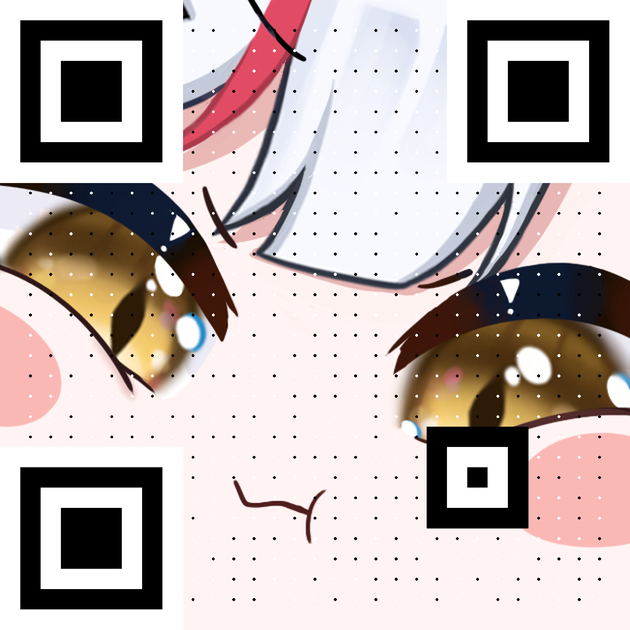
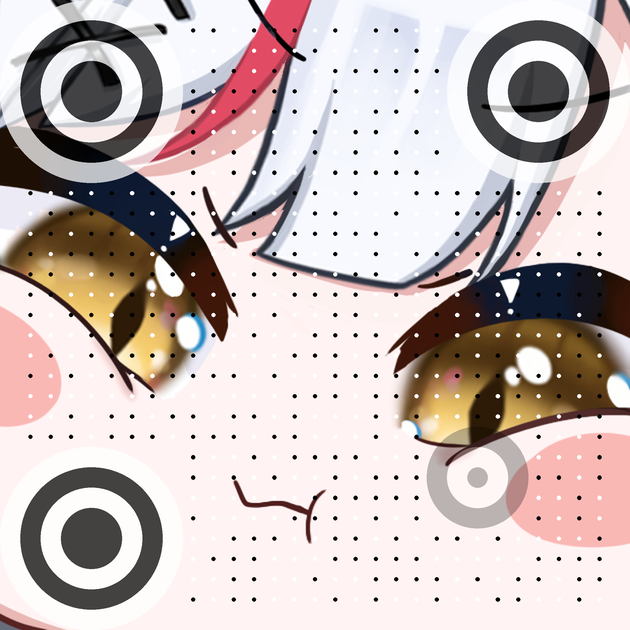
v1

diff --git a/main.py b/main.py
@@ -30,29 +30,47 @@ def drawColorRect(draw: ImageDraw, pos: tuple[float, float], radius: float, colo
 	point2 = (pos[0]+radius, pos[1]+radius)
 	draw.rectangle([point1, point2], fill="#"+colorCode)
 
-def insertQRCodeToImg(inputImageUrl: str, outputImageUrl: str, s_data: str, correctLevel: int, radiusRate: float = 1) -> None: # 將字串轉為 QRCode 後
-	img_input = Image.open(inputImageUrl) # 讀取圖片
-	imageOriginalSize = img_input.size
-	img_input = img_input.resize((2048, 2048), Image.LANCZOS) # 等比例放大圖片
+def insertQRCodeToImg(
+	inputImageUrl: str, # 要美化的圖片的檔案路徑
+	outputImageUrl: str, #
+	s_data: str,
+	correctLevel: int,
+	finderPattern: str,
+	radiusRate: float = 1
+) -> None: # 將字串轉為 QRCode 後
+	img_input = Image.open(inputImageUrl).convert("RGBA") # 讀取圖片
+	imageOriginalSize = img_input.size # 保存圖片的原始大小
+	img_input = img_input.resize((2048, 2048), Image.LANCZOS) # 等比例放大圖片, 因為要使 QRCode 像素點平滑, 等等會縮小回原大小
 	
-	a_QRCode = getQRCodeArr(s_data, correctLevel)
-	QRCodeWidth = len(a_QRCode)
-	pixelWidth = img_input.size[0] / QRCodeWidth
+	img_overlay = Image.new("RGBA", img_input.size, (255, 255, 255, 0)) # 透明圖層, 用於繪製額外的東西在原始圖片上
+	draw = ImageDraw.Draw(img_overlay)
 	
-	draw = ImageDraw.Draw(img_input)
-	for i in range(QRCodeWidth):
+	a_QRCode = getQRCodeArr(s_data, correctLevel) # 取得 QRCode 矩陣
+	QRCodeWidth = len(a_QRCode) # QRCode 的像素邊長 (px)
+	pixelWidth = img_input.size[0] / QRCodeWidth # 每個 QRCode 像素對應到要美化的圖片上, 的大小
+	
+	for i in range(QRCodeWidth): # 繪製 QRCode 的每個點
 		for j in range(QRCodeWidth):
-			color = "000" if a_QRCode[j][i] else "fff"
-			if inRange(i, 1, QRCodeWidth-2) and inRange(j, 1, QRCodeWidth-2):
-				drawColorDot(draw, tupleMulti((0.5+i, 0.5+j), pixelWidth), pixelWidth/2 * radiusRate, color)
+			color = "000" if a_QRCode[j][i] else "fff" # QRCode 像素點是黑色還是白色
 			
 			if (i < 9 and j < 9) or (i >= QRCodeWidth-9 and j < 9) or (i < 9 and j >= QRCodeWidth-9) or\
 				 (inRange(i, QRCodeWidth-10, QRCodeWidth-6) and inRange(j, QRCodeWidth-10, QRCodeWidth-6)):
-				drawColorRect(draw, tupleMulti((0.5+i, 0.5+j), pixelWidth), pixelWidth/2, color)
+				if finderPattern == "rect": drawColorRect(draw, tupleMulti((0.5+i, 0.5+j), pixelWidth), pixelWidth/2, color) # 繪製定位點
+			elif inRange(i, 1, QRCodeWidth-2) and inRange(j, 1, QRCodeWidth-2):
+				drawColorDot(draw, tupleMulti((0.5+i, 0.5+j), pixelWidth), pixelWidth/2 * radiusRate, color) # 繪製資料點
 	
+	if finderPattern == "circle":
+		for pos in ((4.5, 4.5), (4.5, QRCodeWidth-4.5), (QRCodeWidth-4.5, 4.5)): # 繪製三個圓形的大定位點
+			for pixelRadius, color in ((4.5, "fff"), (3.5, "000"), (2.5, "fff"), (1.5, "000")): # 每個大定位點都有黑白相間的圓
+				drawColorDot(draw, tupleMulti(pos, pixelWidth), pixelWidth*pixelRadius, color+"b")
+		
+		for pixelRadius, color in ((2.5, "000"), (1.5, "fff"), (0.5, "000")): # 繪製右下角的小定位點
+			drawColorDot(draw, tupleMulti((QRCodeWidth-7.5, QRCodeWidth-7.5), pixelWidth), pixelWidth*pixelRadius, color+"4")
+	
+	img_input = Image.alpha_composite(img_input, img_overlay) # 將繪製的 QRCode 覆蓋到要美化的圖片上
 	img_input = img_input.resize(imageOriginalSize, Image.LANCZOS) # 等比例縮小圖片
-	img_input.save(outputImageUrl)
+	img_input.save(outputImageUrl) # 以給定路徑保存圖片
 
 #url = "https://www.youtube.com/@ShishiroBotan"
 url = "https://www.youtube.com/@bluenight1022"
-insertQRCodeToImg("night.png", "output.png", url, qrcode.ERROR_CORRECT_M, 0.13)
+insertQRCodeToImg("night.png", "output.png", url, qrcode.ERROR_CORRECT_M, "circle", 0.2)
